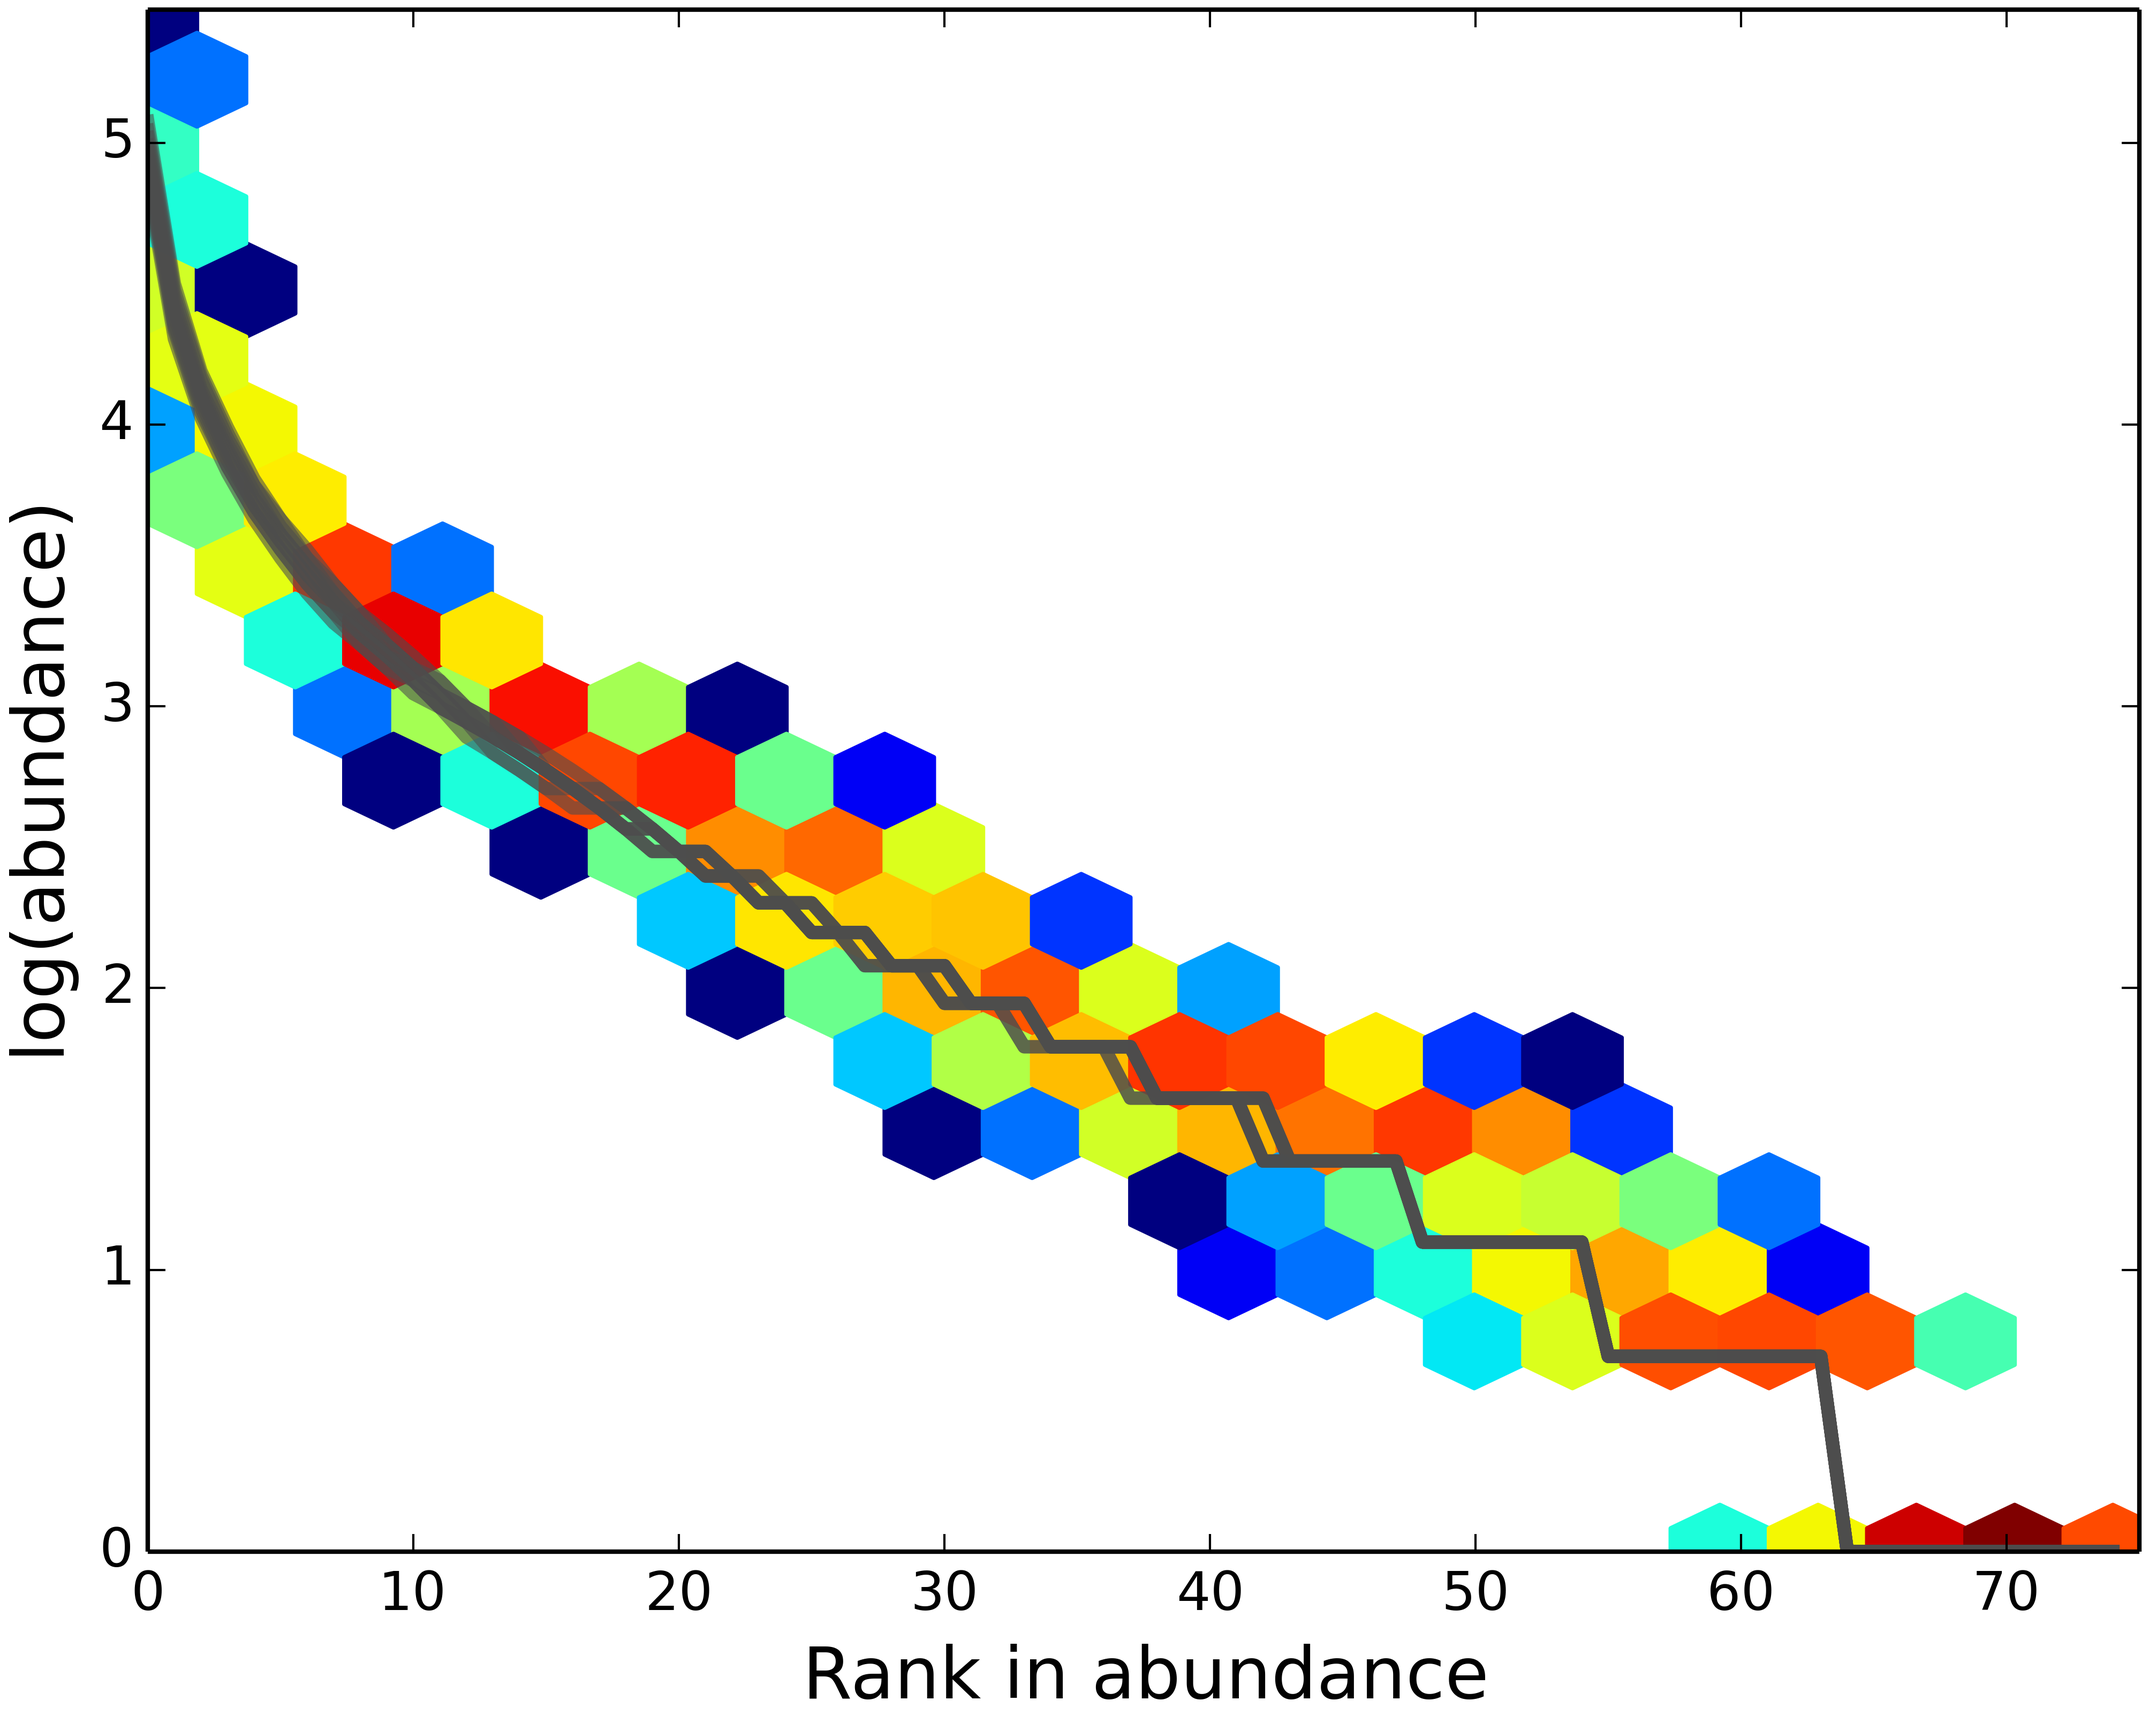
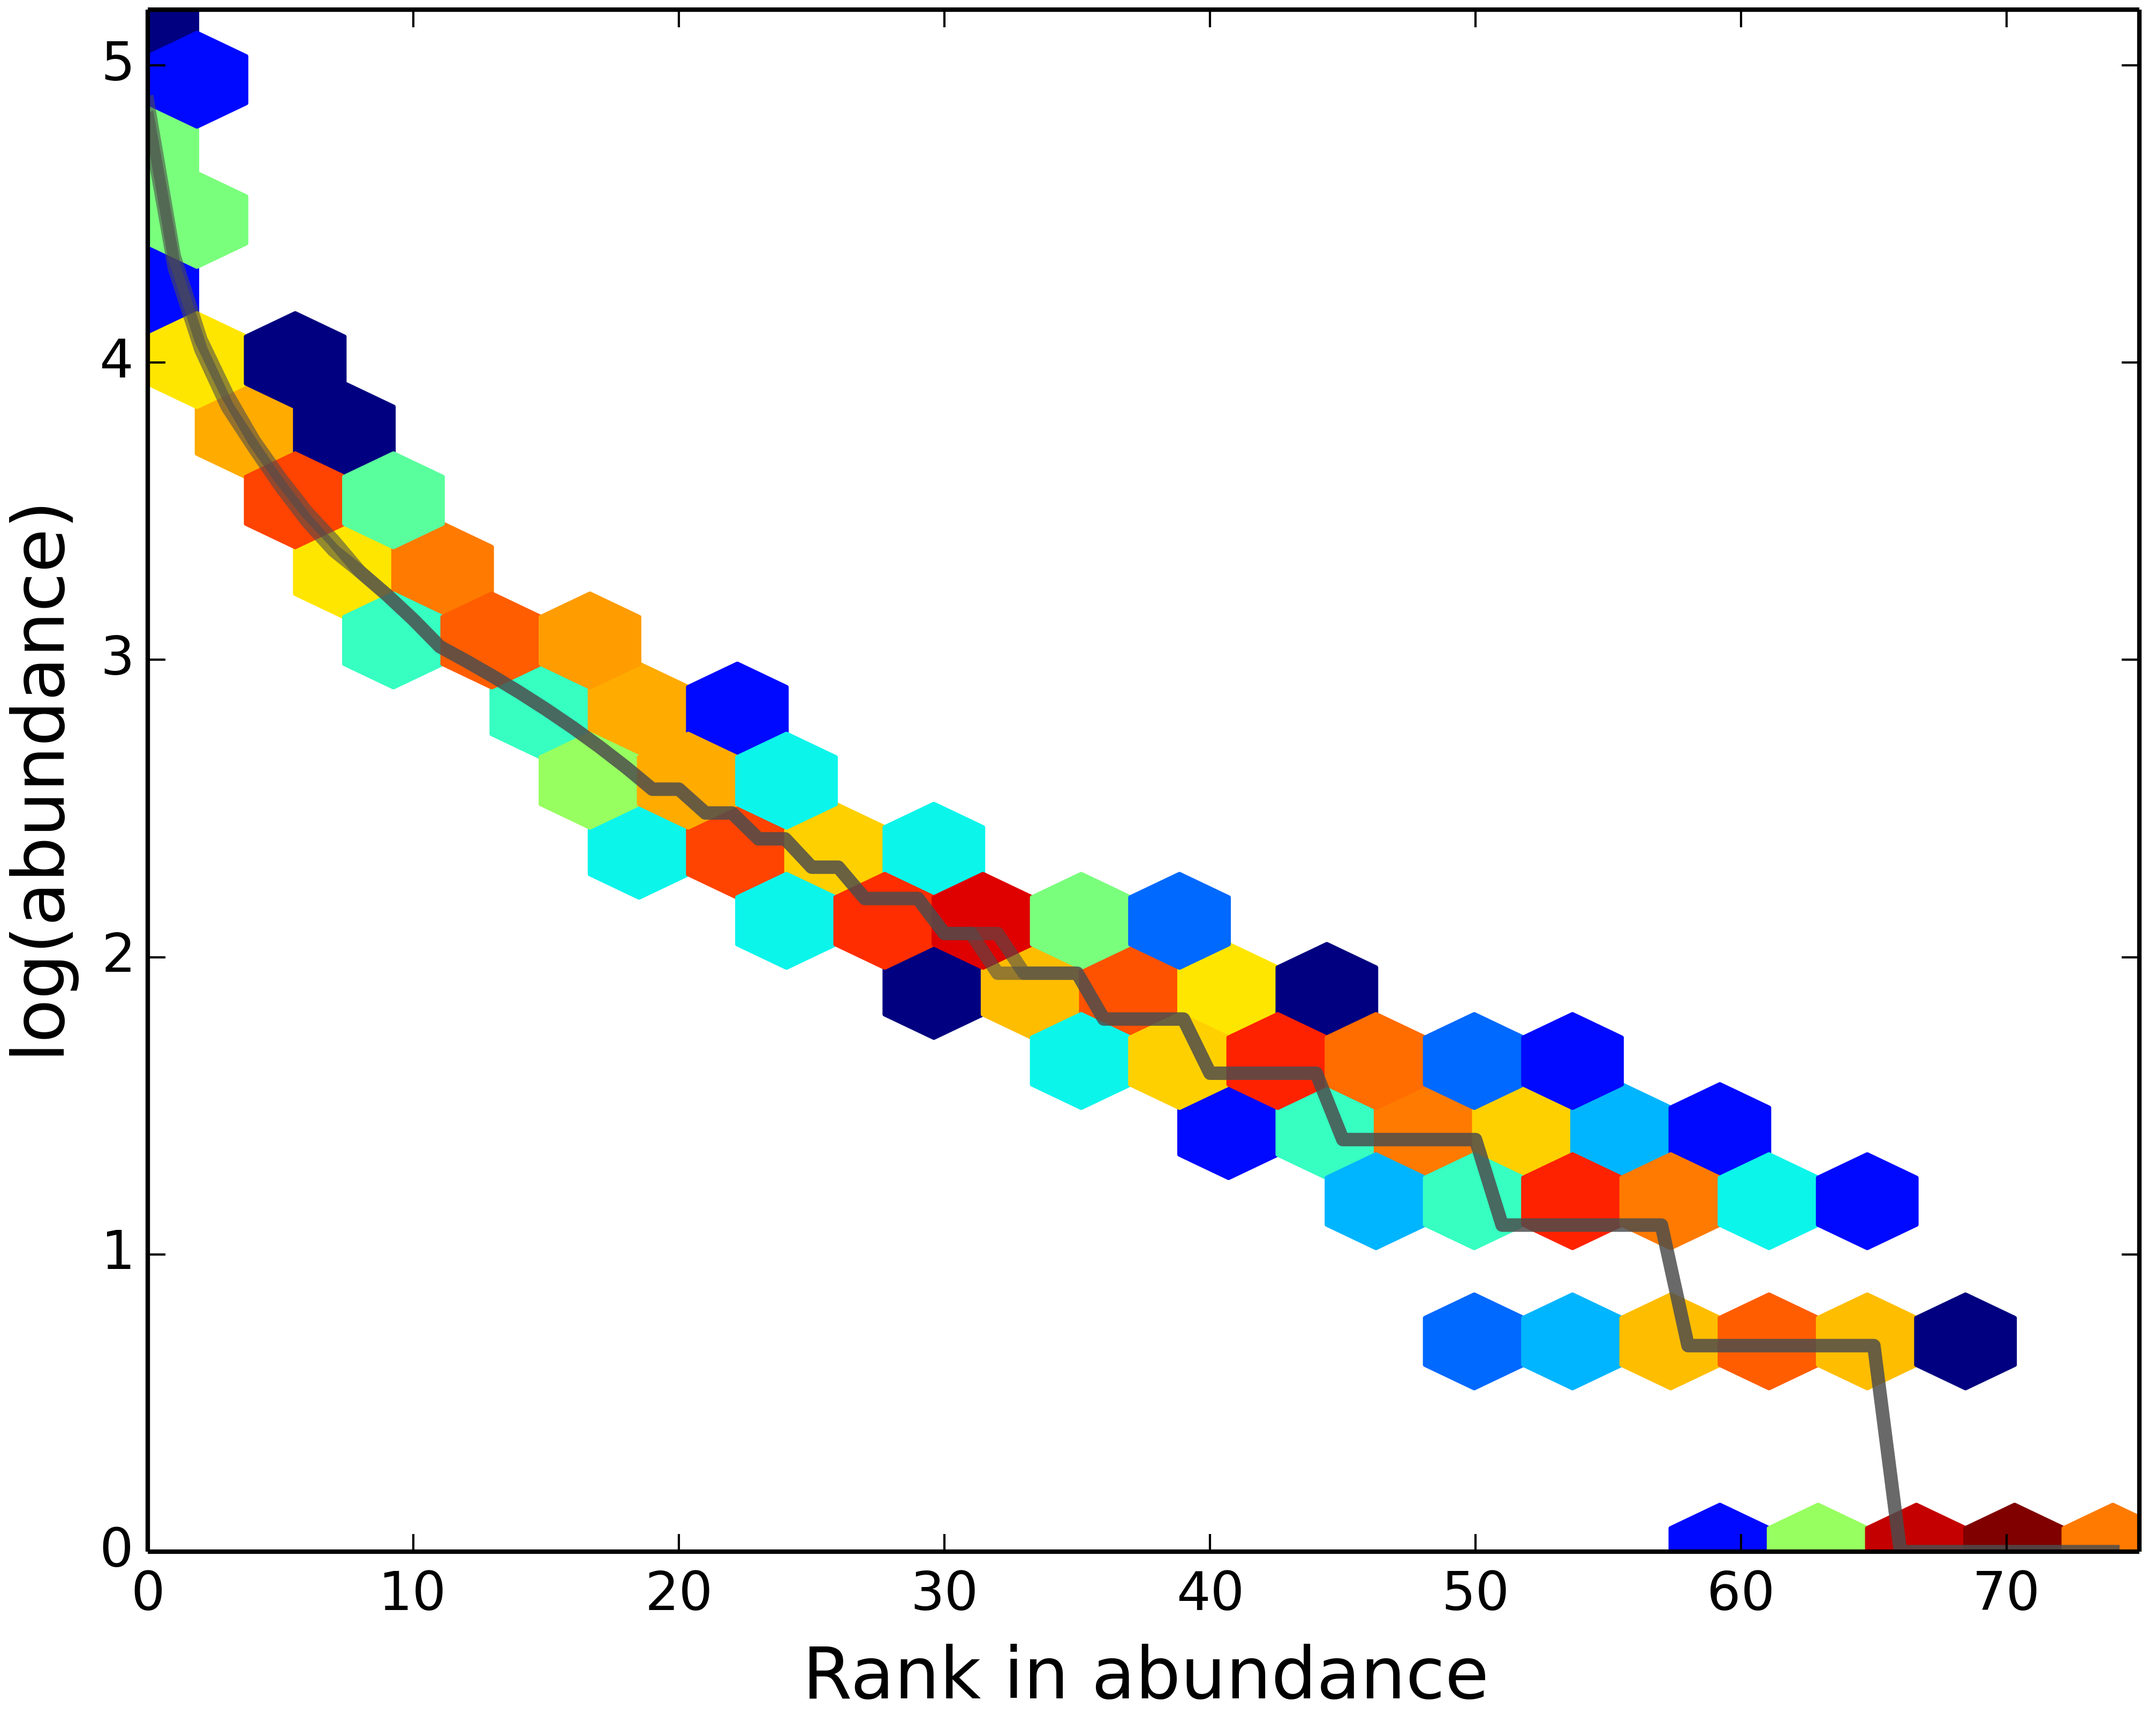
Got the MLE and RAC code to run.  Compares MLEs to RACs

diff --git a/Models/LogNorm_MLEs_and_RACs.py b/Models/LogNorm_MLEs_and_RACs.py
@@ -57,33 +57,33 @@ def get_MLEs(RAC, sample_size):
    #plt.plot(sample)
     #plt.show()
     return sample
-N = 300
-S = 50
+N = 750
+S = 70
 sample_size = 10
 SLN = SimLogNorm(N, S, sample_size)
 #print SLN
 
 x = []
 y = []
-for RAC in SLN:
+for RAC in SLN: #Placing SLN RAC values into lists
     y.extend(np.log(RAC))
     x.extend(range(len(RAC)))
     
-MLE_RACs = get_MLEs(RAC, 20)
-print MLE_RACs
+MLE_RACs = get_MLEs(RAC, 2) #Finding MLEs valus
+print 'MLE', MLE_RACs
 '''N = 0
 for lst in MLE_RACs:
     N, S = sum(MLE_RACs[0]), len(MLE_RACs[0])
     print N, S, lst, np.var(lst, ddof = 1)'''
 
-fig = plt.figure()  # declare a figure object  
+#fig = plt.figure()  # declare a figure object  
   
-for RAC in MLE_RACs:
+for RAC in MLE_RACs: #Plotting MLEs
     plt.plot(np.log(RAC), color='0.3', lw=3, alpha = 0.6)
 
-fig = PlotAvgShape(fig, RAC) 
+#fig = PlotAvgShape(fig, RAC) 
     
-plt.hexbin(x, y, mincnt=1, gridsize = 20, bins = 'log', cmap=plt.cm.jet)
+plt.hexbin(x, y, mincnt=1, gridsize = 20, bins = 'log', cmap=plt.cm.jet) #Generating Heat Map for SLN RAC
     
 plt.xlim(0, len(RAC))
 plt.xlabel('Rank in abundance', fontsize=16)
